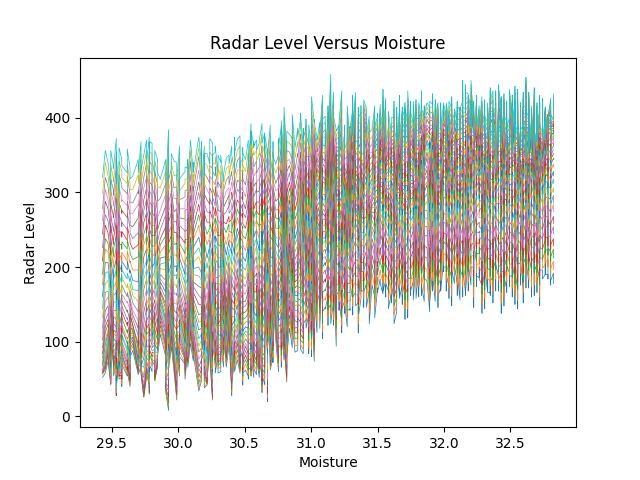
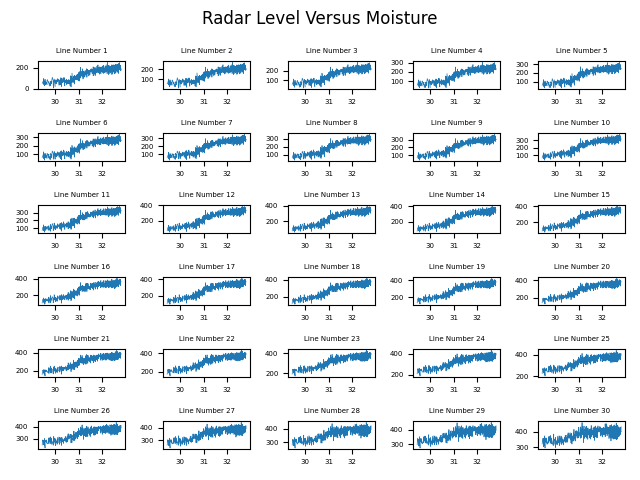
Split aggregate for visualization

diff --git a/subcommands/plot/versus.py b/subcommands/plot/versus.py
@@ -99,16 +99,32 @@ def run_versus_subcommand(program_arguments):
         return radar_versus_moisture_lines
     radar_versus_moisture_lines = produce_radar_versus_moisture_lines(radar_and_moisture_grouped_by_moisture, power_levels, "individual")
 
-    plt.title('Radar Level Versus Moisture')
-    plt.xlabel('Moisture')
-    plt.ylabel('Radar Level')
     def plot_radar_versus_moisture_lines(radar_versus_moisture_lines):
-        for radar_versus_moisture_line in radar_versus_moisture_lines:
-            plt.plot(
+        from math import floor, ceil
+        subplot_width = 5
+        subplot_height = ceil(len(radar_versus_moisture_lines) / subplot_width)
+        subplots_figure, subplots_ax = plt.subplots(
+            ncols=subplot_width, 
+            nrows=subplot_height,
+            tight_layout=True
+        )
+        # subplots_figure.suptitle('Radar Level Versus Moisture')
+        subplots_figure.set_figwidth(40)
+        subplots_figure.set_figheight(125)
+        subplots_figure.subplots_adjust(top=0.85)
+        for line_index, radar_versus_moisture_line in enumerate(radar_versus_moisture_lines):
+            sub_ax = subplots_ax[floor(line_index / subplot_width), line_index % subplot_width]
+            sub_ax.set_title("Line Number {}".format(line_index + 1), fontsize=10)
+            sub_ax.tick_params(axis='both', which='major', labelsize=10)
+            sub_ax.plot(
                 radar_versus_moisture_line[0], 
                 radar_versus_moisture_line[1], 
-                linewidth=0.5
+                linewidth=1
             )
+        for line_index in range(line_index + 1, subplot_width * subplot_height):
+            sub_ax = subplots_ax[floor(line_index / subplot_width), line_index % subplot_width]
+            sub_ax.remove()
+            
     plot_radar_versus_moisture_lines(radar_versus_moisture_lines)
 
     if program_arguments.export_dir is not None:
